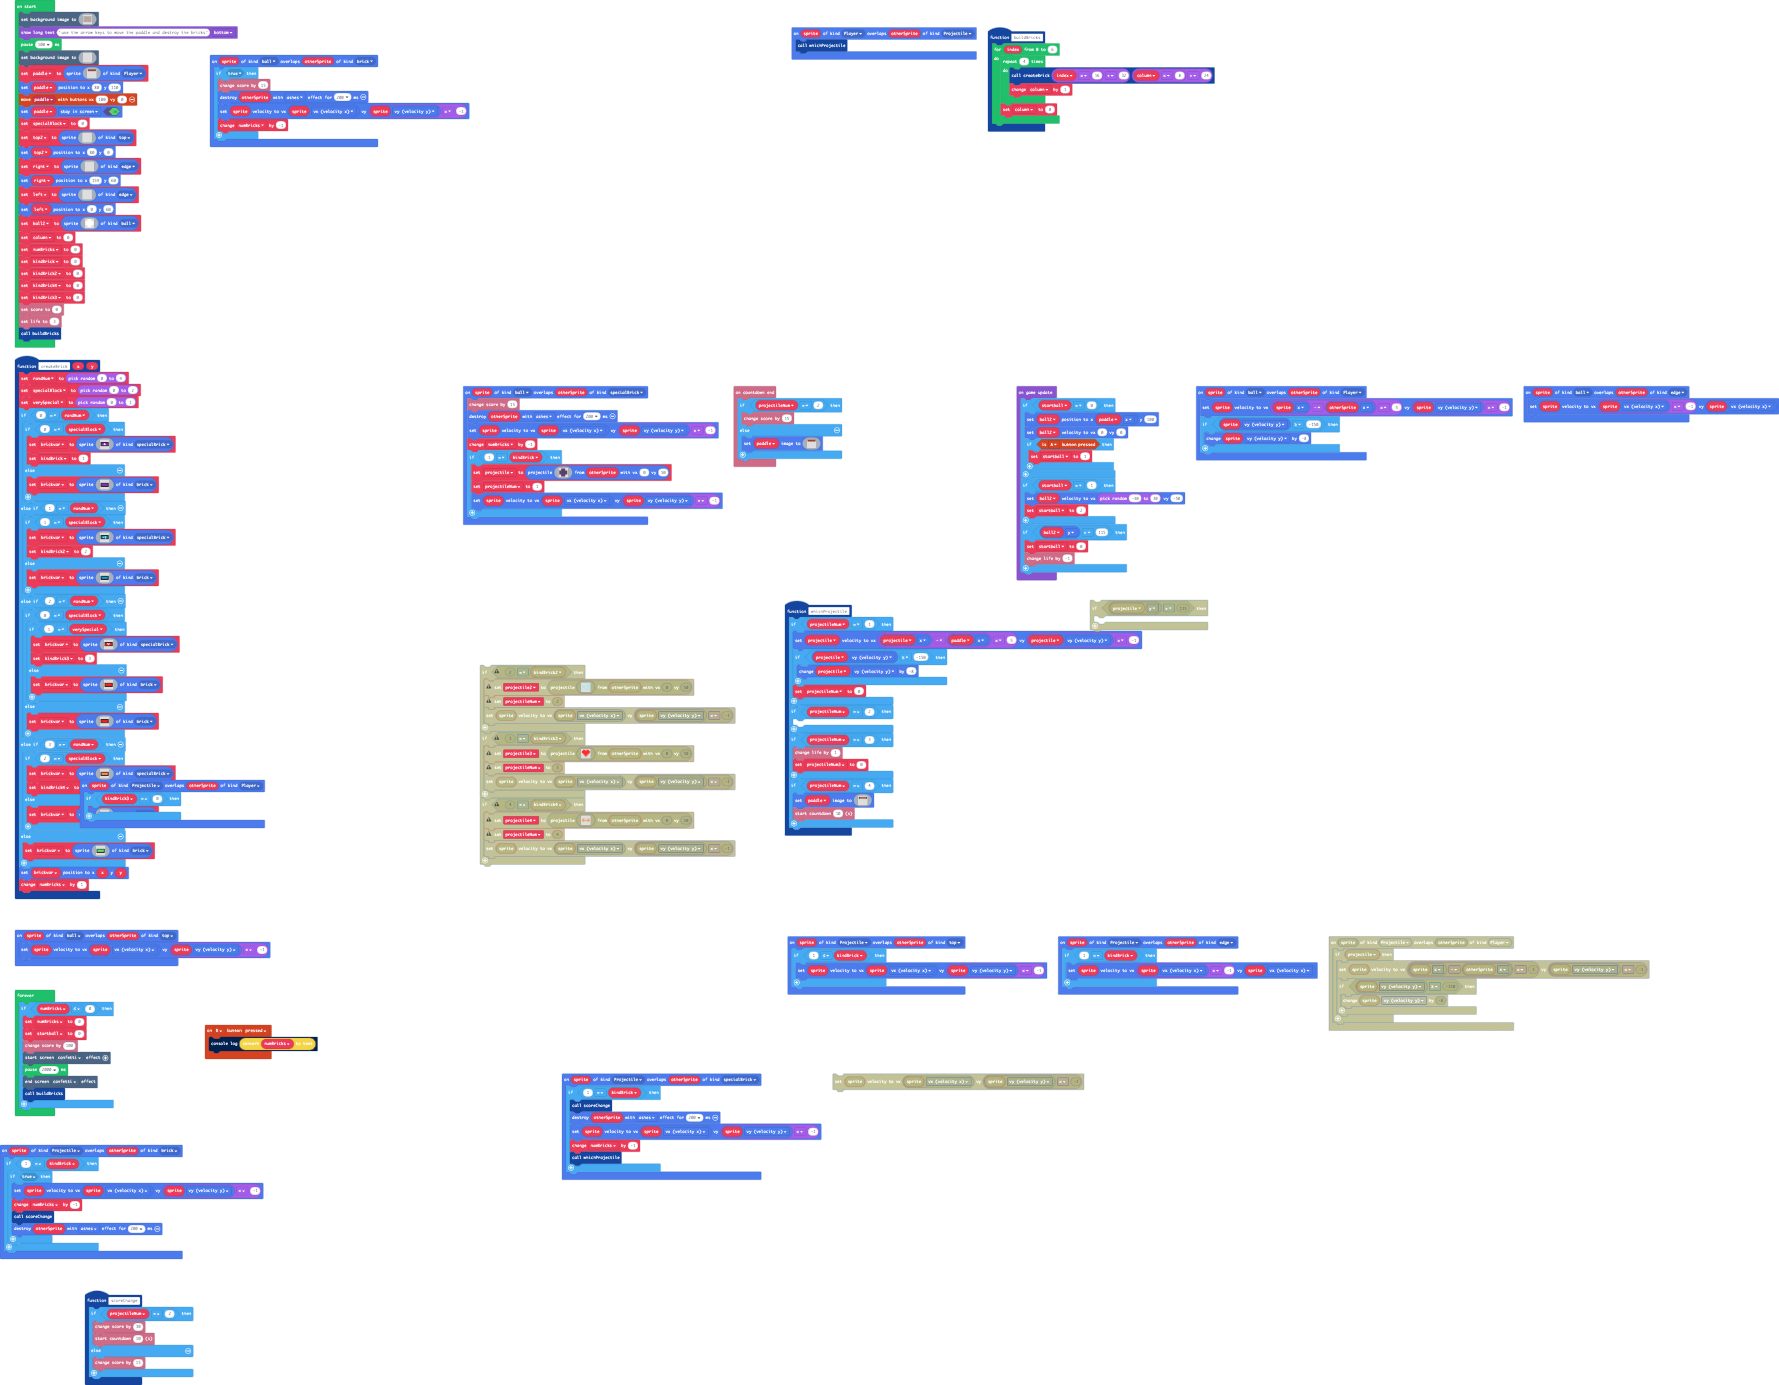
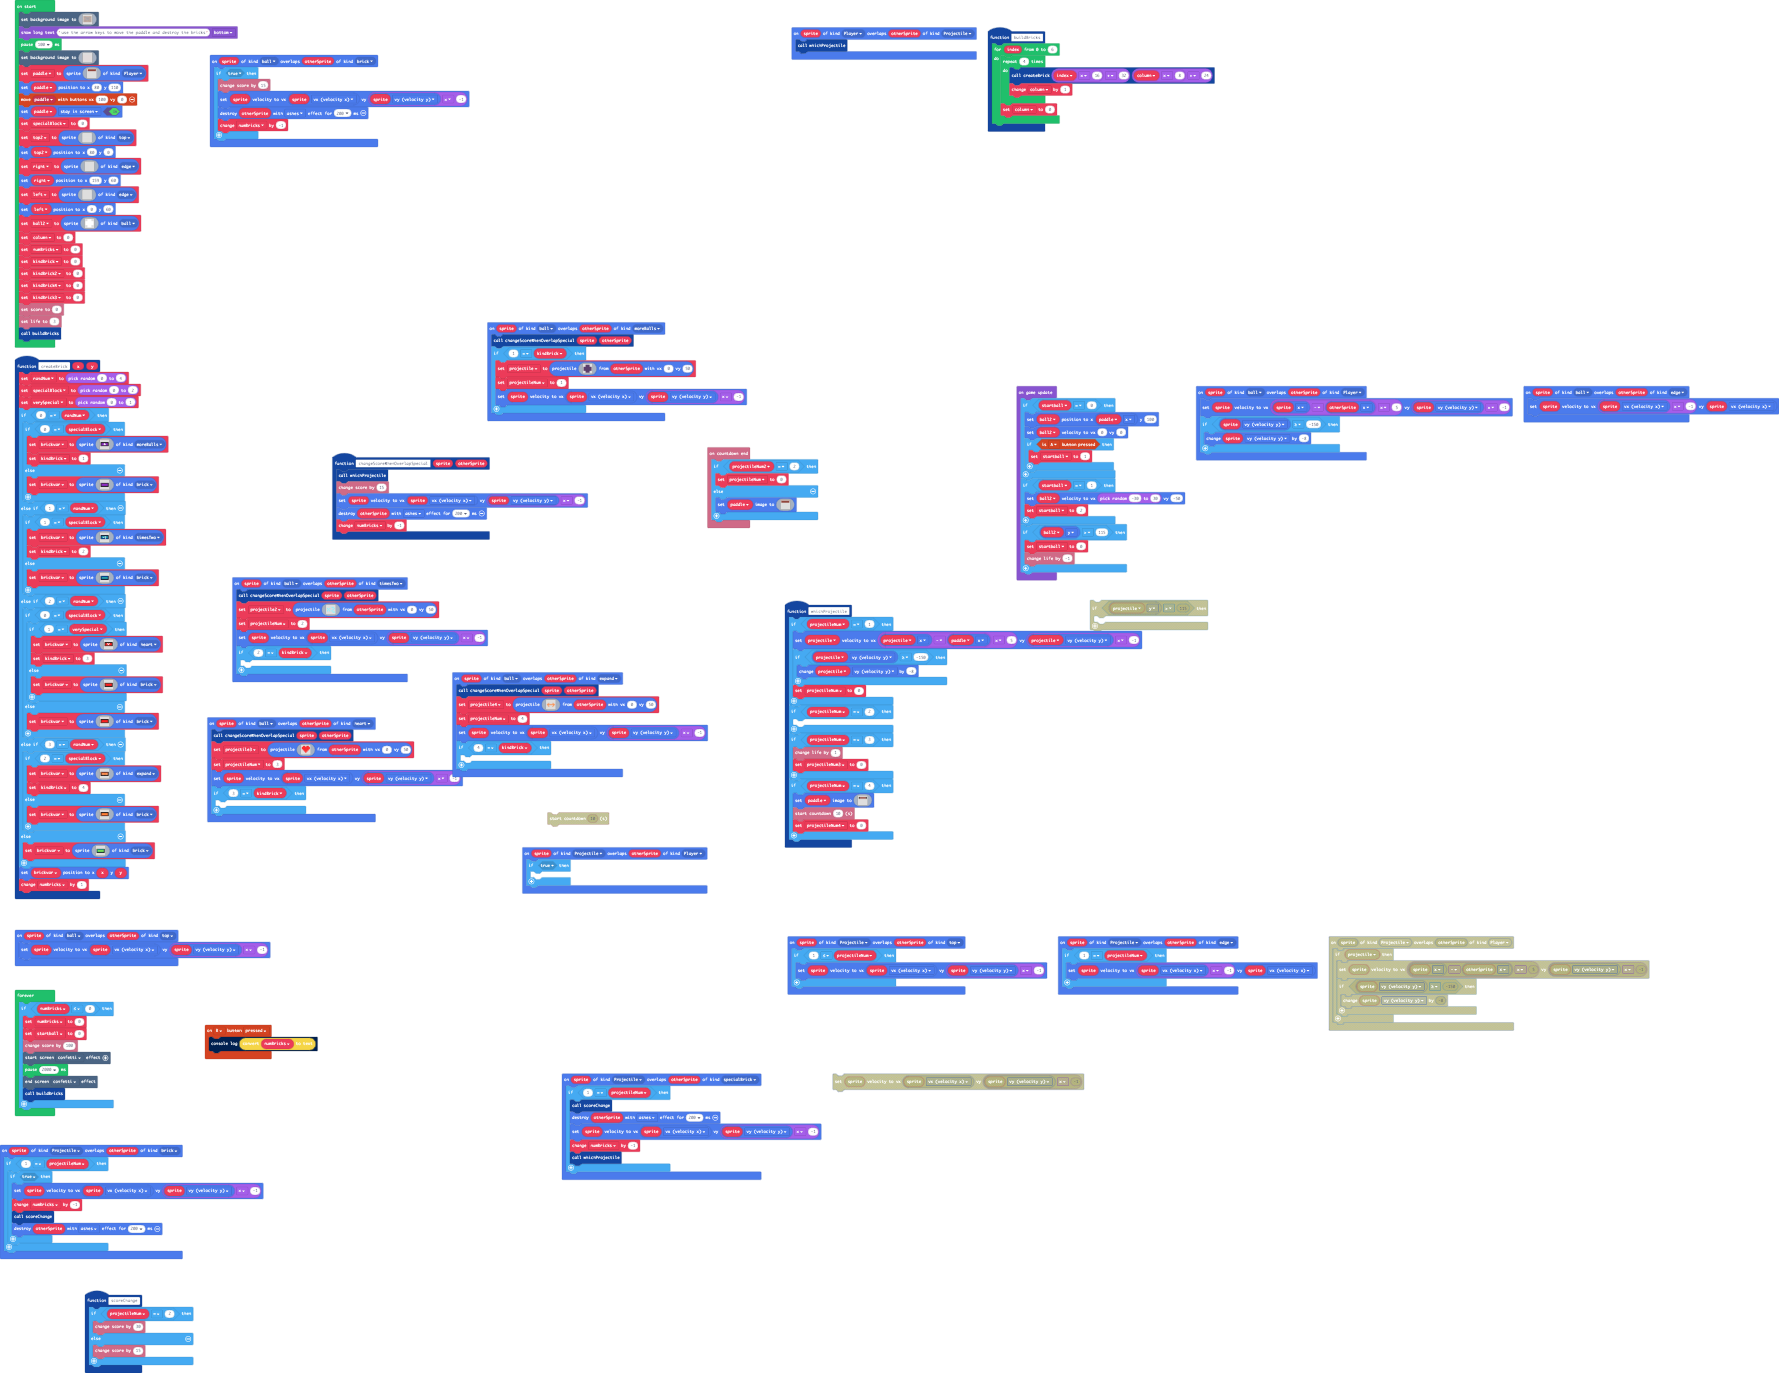
Update main.blocks, main.ts

diff --git a/main.ts b/main.ts
@@ -12,15 +12,21 @@ namespace SpriteKind {
 sprites.onOverlap(SpriteKind.ball, SpriteKind.brick, function (sprite, otherSprite) {
     if (true) {
         info.changeScoreBy(15)
-        otherSprite.destroy(effects.ashes, 200)
         sprite.setVelocity(sprite.vx, sprite.vy * -1)
+        otherSprite.destroy(effects.ashes, 200)
         numBricks += -1
     }
 })
+function changeScoreWhenOverlapSpecial (sprite: Sprite, otherSprite: Sprite) {
+    whichProjectile()
+    info.changeScoreBy(15)
+    sprite.setVelocity(sprite.vx, sprite.vy * -1)
+    otherSprite.destroy(effects.ashes, 200)
+    numBricks += -1
+}
 function scoreChange () {
     if (projectileNum == 2) {
         info.changeScoreBy(30)
-        info.startCountdown(10)
     } else {
         info.changeScoreBy(15)
     }
@@ -29,7 +35,7 @@ controller.B.onEvent(ControllerButtonEvent.Pressed, function () {
     console.log(convertToText(numBricks))
 })
 sprites.onOverlap(SpriteKind.Projectile, SpriteKind.brick, function (sprite, otherSprite) {
-    if (1 == kindBrick) {
+    if (1 == projectileNum) {
         if (true) {
             sprite.setVelocity(sprite.vx, sprite.vy * -1)
             numBricks += -1
@@ -38,11 +44,28 @@ sprites.onOverlap(SpriteKind.Projectile, SpriteKind.brick, function (sprite, oth
         }
     }
 })
+sprites.onOverlap(SpriteKind.ball, SpriteKind.heart, function (sprite, otherSprite) {
+    changeScoreWhenOverlapSpecial(sprite, otherSprite)
+    projectile3 = sprites.createProjectileFromSprite(img`
+. 2 2 . 2 2 . 
+2 2 2 2 2 2 2 
+2 2 2 2 2 2 2 
+. 2 2 2 2 2 . 
+. . 2 2 2 . . 
+. . . 2 . . . 
+. . . . . . . 
+`, otherSprite, 0, 50)
+    projectileNum = 3
+    sprite.setVelocity(sprite.vx, sprite.vy * -1)
+    if (3 == kindBrick) {
+    	
+    }
+})
 sprites.onOverlap(SpriteKind.ball, SpriteKind.edge, function (sprite, otherSprite) {
     sprite.setVelocity(sprite.vx * -1, sprite.vx)
 })
 sprites.onOverlap(SpriteKind.Projectile, SpriteKind.specialBrick, function (sprite, otherSprite) {
-    if (1 == kindBrick) {
+    if (1 == projectileNum) {
         scoreChange()
         otherSprite.destroy(effects.ashes, 200)
         sprite.setVelocity(sprite.vx, sprite.vy * -1)
@@ -53,25 +76,24 @@ sprites.onOverlap(SpriteKind.Projectile, SpriteKind.specialBrick, function (spri
 sprites.onOverlap(SpriteKind.Player, SpriteKind.Projectile, function (sprite, otherSprite) {
     whichProjectile()
 })
-sprites.onOverlap(SpriteKind.Projectile, SpriteKind.edge, function (sprite, otherSprite) {
-    if (1 == kindBrick) {
-        sprite.setVelocity(sprite.vx * -1, sprite.vx)
+sprites.onOverlap(SpriteKind.ball, SpriteKind.expand, function (sprite, otherSprite) {
+    changeScoreWhenOverlapSpecial(sprite, otherSprite)
+    projectile4 = sprites.createProjectileFromSprite(img`
+. . 4 . . . . 4 . . 
+. 4 . . . . . . 4 . 
+4 4 4 4 4 4 4 4 4 4 
+. 4 . . . . . . 4 . 
+. . 4 . . . . 4 . . 
+`, otherSprite, 0, 50)
+    projectileNum = 4
+    sprite.setVelocity(sprite.vx, sprite.vy * -1)
+    if (4 == kindBrick) {
+    	
     }
 })
-sprites.onOverlap(SpriteKind.ball, SpriteKind.specialBrick, function (sprite, otherSprite) {
-    info.changeScoreBy(15)
-    otherSprite.destroy(effects.ashes, 200)
-    sprite.setVelocity(sprite.vx, sprite.vy * -1)
-    numBricks += -1
-    if (1 == kindBrick) {
-        projectile = sprites.createProjectileFromSprite(img`
-. c c . 
-c c c c 
-c c c c 
-. c c . 
-`, otherSprite, 0, 50)
-        projectileNum = 1
-        sprite.setVelocity(sprite.vx, sprite.vy * -1)
+sprites.onOverlap(SpriteKind.Projectile, SpriteKind.edge, function (sprite, otherSprite) {
+    if (1 == projectileNum) {
+        sprite.setVelocity(sprite.vx * -1, sprite.vx)
     }
 })
 function buildBricks () {
@@ -83,9 +105,27 @@ function buildBricks () {
         column = 0
     }
 }
+sprites.onOverlap(SpriteKind.ball, SpriteKind.timesTwo, function (sprite, otherSprite) {
+    changeScoreWhenOverlapSpecial(sprite, otherSprite)
+    projectile2 = sprites.createProjectileFromSprite(img`
+. . . . . . . 
+. . . . 9 9 . 
+9 . 9 . . . 9 
+. 9 . . . 9 . 
+9 . 9 . 9 . . 
+. . . . . 9 9 
+. . . . . . . 
+`, otherSprite, 0, 50)
+    projectileNum = 2
+    sprite.setVelocity(sprite.vx, sprite.vy * -1)
+    if (2 == kindBrick) {
+    	
+    }
+})
 info.onCountdownEnd(function () {
-    if (projectileNum == 2) {
-        info.changeScoreBy(15)
+    let projectileNum2 = 0
+    if (projectileNum2 == 2) {
+        projectileNum = 0
     } else {
         paddle.setImage(img`
 e e e e e e e e e e e e e e e e 
@@ -114,7 +154,7 @@ sprites.onOverlap(SpriteKind.ball, SpriteKind.Player, function (sprite, otherSpr
     }
 })
 sprites.onOverlap(SpriteKind.Projectile, SpriteKind.top, function (sprite, otherSprite) {
-    if (1 <= kindBrick) {
+    if (1 <= projectileNum) {
         sprite.setVelocity(sprite.vx, sprite.vy * -1)
     }
 })
@@ -153,6 +193,7 @@ f f e e e e e e e e e e e e e e e e f f
 . . . . . . . . . . . . . . . . . . . . 
 `)
         info.startCountdown(10)
+        projectileNum4 = 0
     }
 }
 function createBrick (x: number, y: number) {
@@ -170,7 +211,7 @@ f c a a a a 1 1 1 1 a a a a c f
 f c a a a a a 1 1 a a a a a c f 
 f a c c c c c c c c c c c c a f 
 f f f f f f f f f f f f f f f f 
-`, SpriteKind.specialBrick)
+`, SpriteKind.moreBalls)
             kindBrick = 1
         } else {
             brickvar = sprites.create(img`
@@ -195,8 +236,8 @@ f 8 6 6 6 1 6 6 6 1 6 6 6 6 8 f
 f 8 6 6 1 6 1 6 1 6 6 6 6 6 8 f 
 f 6 8 8 8 8 8 8 8 1 1 8 8 8 6 f 
 f f f f f f f f f f f f f f f f 
-`, SpriteKind.specialBrick)
-            kindBrick2 = 2
+`, SpriteKind.timesTwo)
+            kindBrick = 2
         } else {
             brickvar = sprites.create(img`
 f f f f f f f f f f f f f f f f 
@@ -221,8 +262,8 @@ f e 2 2 2 2 1 1 1 2 2 2 2 2 e f
 f e 2 2 2 2 2 1 2 2 2 2 2 2 e f 
 f 2 e e e e e e e e e e e e 2 f 
 f f f f f f f f f f f f f f f f 
-`, SpriteKind.specialBrick)
-                kindBrick3 = 3
+`, SpriteKind.heart)
+                kindBrick = 3
             } else {
                 brickvar = sprites.create(img`
 f f f f f f f f f f f f f f f f 
@@ -258,8 +299,8 @@ f e 4 d d d d d d d d d d d e f
 f e 4 4 d 4 4 4 4 4 4 4 d 4 e f 
 f 4 e e e d e e e e e d e e 4 f 
 f f f f f f f f f f f f f f f f 
-`, SpriteKind.specialBrick)
-            kindBrick4 = 4
+`, SpriteKind.expand)
+            kindBrick = 4
         } else {
             brickvar = sprites.create(img`
 f f f f f f f f f f f f f f f f 
@@ -287,8 +328,21 @@ f f f f f f f f f f f f f f f f
     brickvar.setPosition(x, y)
     numBricks += 1
 }
+sprites.onOverlap(SpriteKind.ball, SpriteKind.moreBalls, function (sprite, otherSprite) {
+    changeScoreWhenOverlapSpecial(sprite, otherSprite)
+    if (1 == kindBrick) {
+        projectile = sprites.createProjectileFromSprite(img`
+. c c . 
+c c c c 
+c c c c 
+. c c . 
+`, otherSprite, 0, 50)
+        projectileNum = 1
+        sprite.setVelocity(sprite.vx, sprite.vy * -1)
+    }
+})
 sprites.onOverlap(SpriteKind.Projectile, SpriteKind.Player, function (sprite, otherSprite) {
-    if (kindBrick3 == 0) {
+    if (true) {
     	
     }
 })
@@ -299,12 +353,13 @@ let startball = 0
 let brickvar: Sprite = null
 let verySpecial = 0
 let randNum = 0
+let projectileNum4 = 0
 let projectileNum3 = 0
 let projectile: Sprite = null
+let projectile2: Sprite = null
+let projectile4: Sprite = null
+let projectile3: Sprite = null
 let projectileNum = 0
-let kindBrick3 = 0
-let kindBrick4 = 0
-let kindBrick2 = 0
 let kindBrick = 0
 let numBricks = 0
 let column = 0
@@ -877,9 +932,9 @@ let ball2 = sprites.create(img`
 column = 0
 numBricks = 0
 kindBrick = 0
-kindBrick2 = 0
-kindBrick4 = 0
-kindBrick3 = 0
+let kindBrick2 = 0
+let kindBrick4 = 0
+let kindBrick3 = 0
 info.setScore(0)
 info.setLife(3)
 buildBricks()
